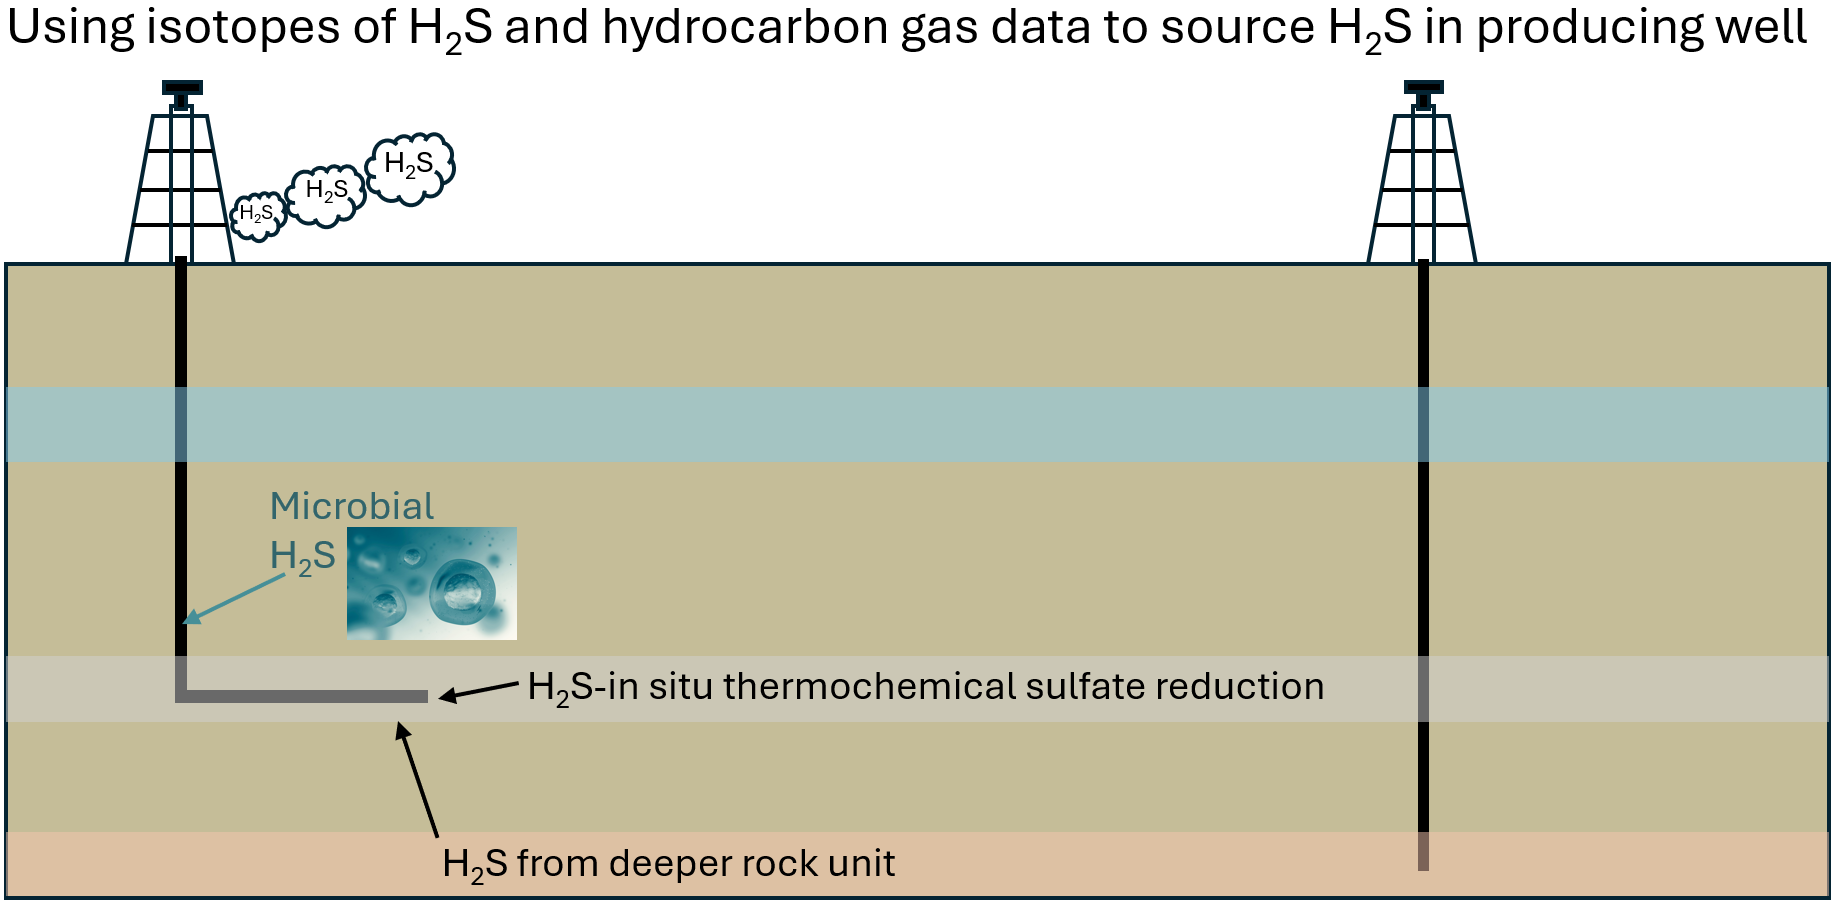
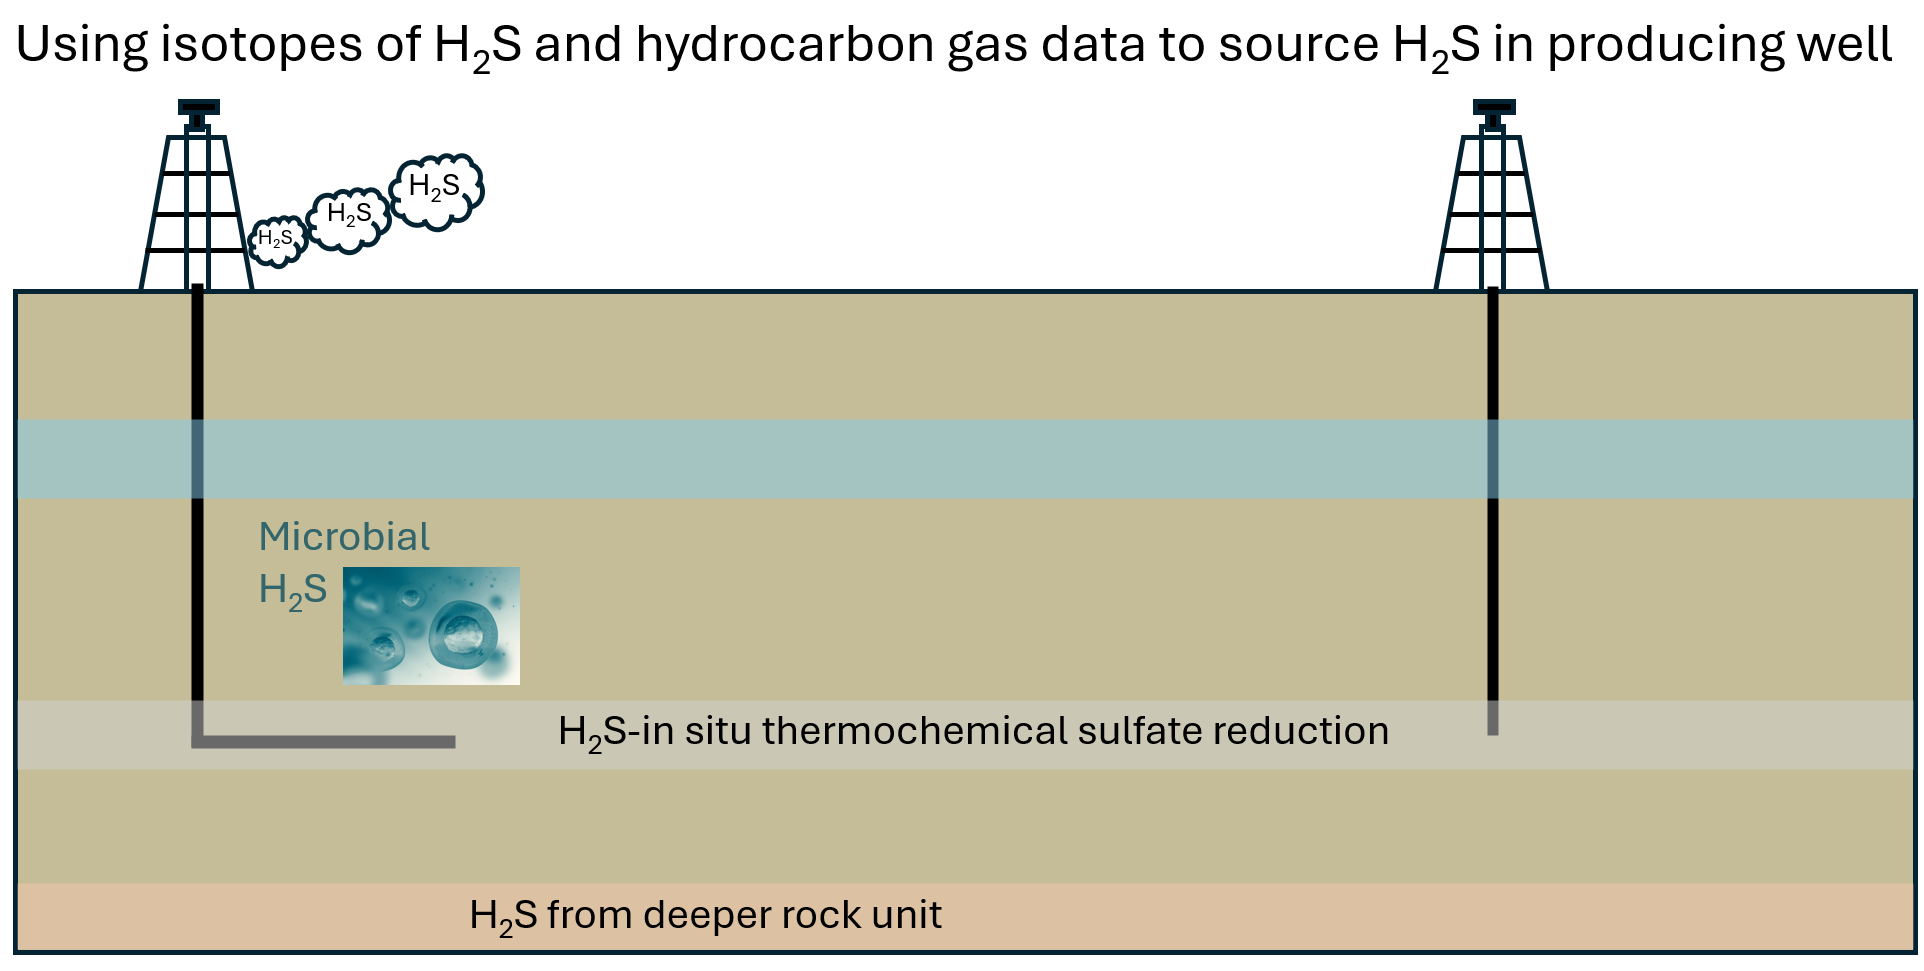
Delete news page and update services images

Changed region(s): [[0.0, 0.0, 1.0, 1.0]]

diff --git a/src/app/services/water/_tabs/StableIsotopesTab.tsx b/src/app/services/water/_tabs/StableIsotopesTab.tsx
@@ -1,7 +1,7 @@
 import Link from 'next/link';
 import Image from 'next/image';
 import Accordion from '@/components/Accordion';
-import placeholder from '@/public/images/placeholder.png';
+import stableIsotopesImg from '@/public/images/water/Stable Isotopes of Water Figure.png';
 
 export default function StableIsotopesTab() {
     return (
@@ -17,6 +17,14 @@ export default function StableIsotopesTab() {
                 <li>Are injected produced fluids leaking into shallower aquifers?</li>
                 <li>Is water used for injection for enhanced oil recovery being produced by the oil well?</li>
             </ul>
+
+            <Image 
+                src={stableIsotopesImg}
+                alt="Graph showing stable isotopes of water"
+                width={600}
+                height={443}
+                className="figure-img img-fluid mx-auto d-block my-4"
+            />
 
             {/* <figure className="figure row mt-4">
                 <div className="col-12 col-lg-6">

diff --git a/src/app/about/qaqc/page.tsx b/src/app/about/qaqc/page.tsx
@@ -1,6 +1,6 @@
 import Image from "next/image";
 import Subpage from "@/components/Subpage";
-import qcImg from "@/public/images/QC.jpg";
+import qcImg from "@/public/images/Quality Assurance.Quality Control Table.png";
 
 export const metadata = {
     title: "Quality Assurance/Quality Control | About | Isotech",
@@ -20,12 +20,12 @@ export default function QualityAssurance() {
             <Image 
                 src={qcImg}
                 alt="table of analysis results"
-                width={800}
-                height={812}
+                width={700}
+                height={873}
                 className="img-fluid"
             />
 
-            <p>At least 20% of all analyses performed at Isotech are for QA/QC.</p>
+            <p className="mt-3">At least 20% of all analyses performed at Isotech are for QA/QC.</p>
 
             <h2>Standards</h2>
 

diff --git a/src/components/MainNav.tsx b/src/components/MainNav.tsx
@@ -35,7 +35,6 @@ export default function MainNav() {
                                     <ul className="list-unstyled">
                                         <li><Link href="/about/staff">Staff</Link></li>
                                         <li><Link href="/about/satellite-laboratories">Satellite Laboratories</Link></li>
-                                        <li><Link href="/about/news">News</Link></li>
                                         <li><Link href="/about/qaqc">Quality Assurance/Quality Control</Link></li>
                                         <li><Link href="/about/contact">Contact</Link></li>
                                     </ul>
